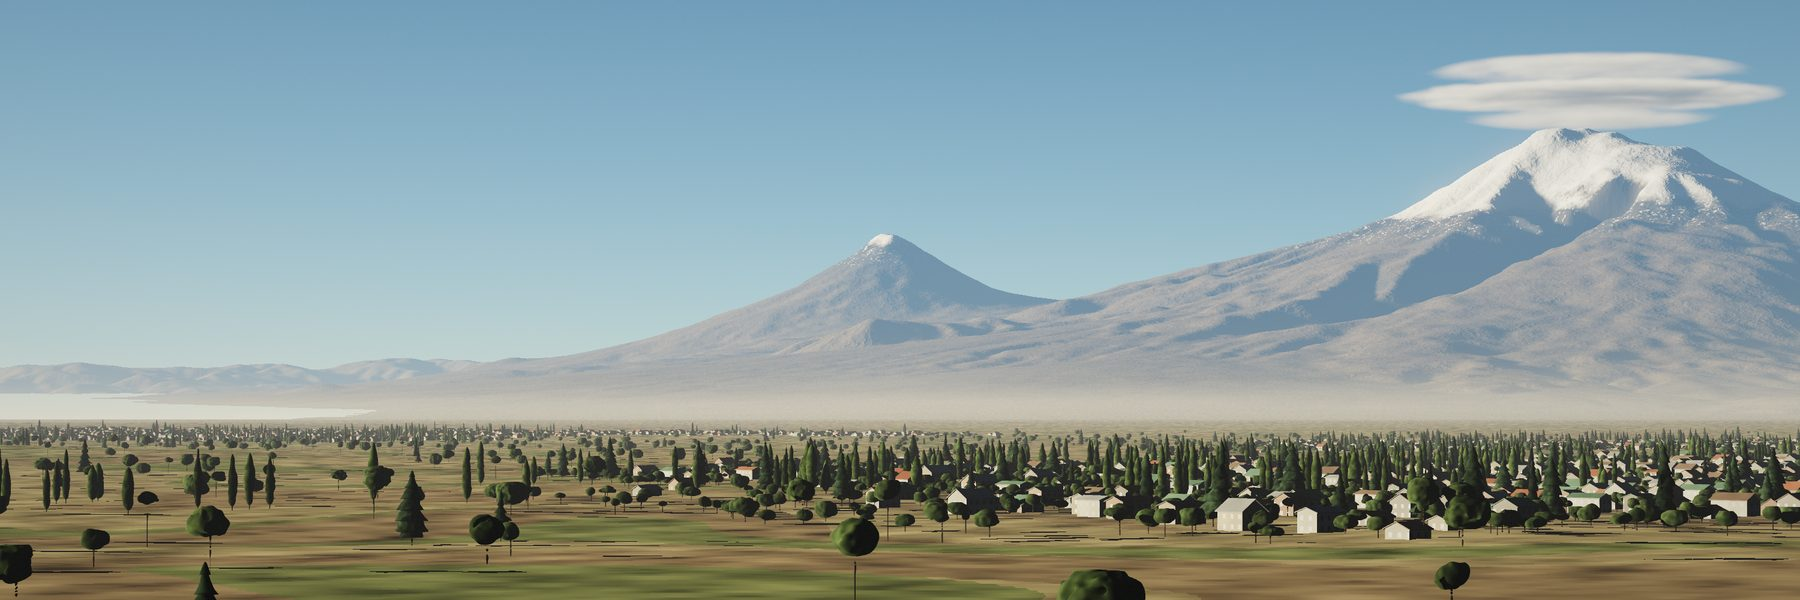
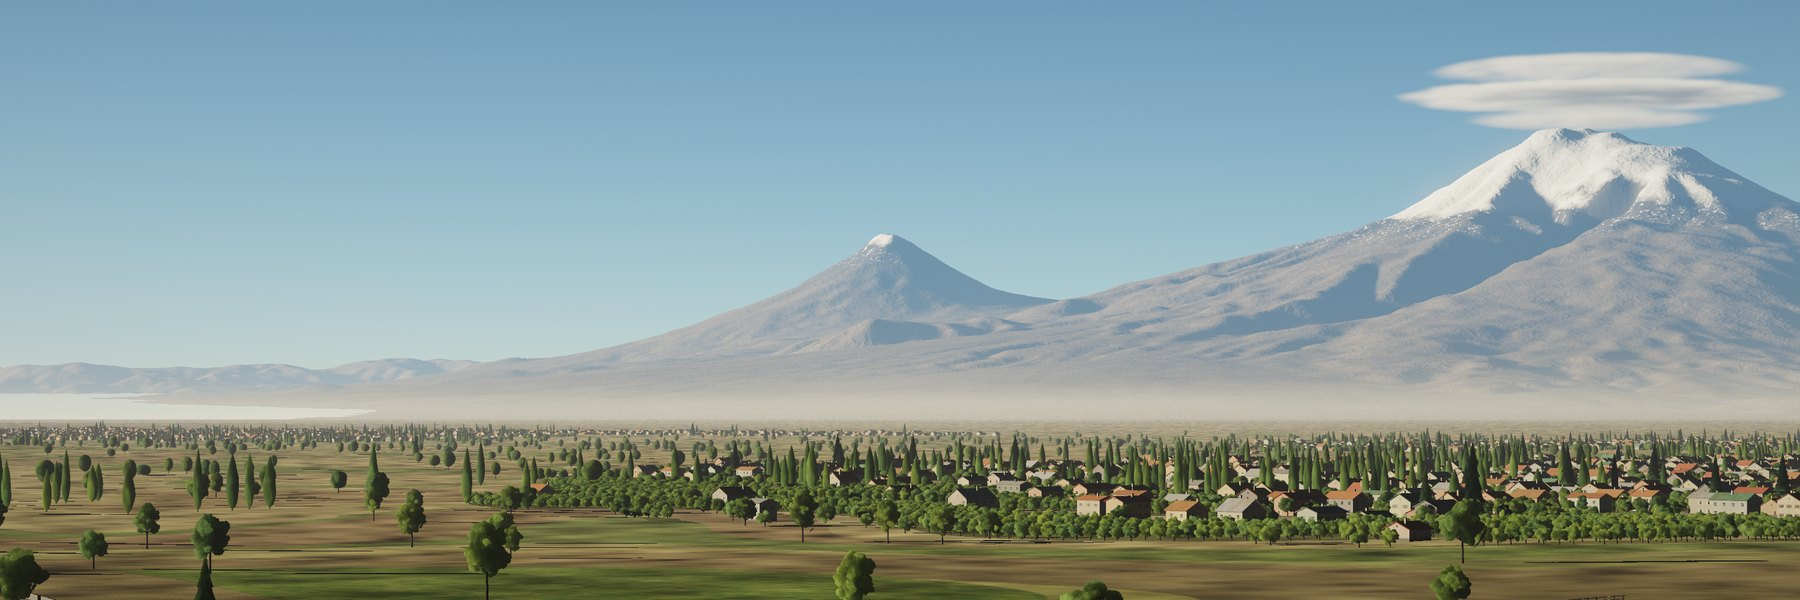
Docs and media: village close-up, blue hour on real streets, OSM credit, changelog
Claude-Session: https://claude.ai/code/session_01LATHsLhwRN2qucnQSaWobU

Changed region(s): [[0.0, 0.69, 1.0, 1.0]]

diff --git a/docs/index.html b/docs/index.html
@@ -268,14 +268,18 @@ footer{margin-top:clamp(56px,8vw,110px);padding-block:18px 36px;border-top:1px s
           <div class="frame"><img id="reArarat" src="media/re_ararat.jpg" alt="Photographic render of Ararat at golden hour with haze and a lenticular cloud" width="1800" height="600" loading="lazy"></div>
           <figcaption><span>Ararat from the plain · golden hour, sun placed to light the faces the camera sees</span><a class="save" data-save="reArarat" href="#" download>Save image</a></figcaption>
         </figure>
+        <figure>
+          <div class="frame"><img id="reVillage" src="media/re_village.jpg" alt="A dirt lane past a stone-walled house, orchards and poplar rows, with Ararat and Little Ararat behind" width="1800" height="600" loading="lazy"></div>
+          <figcaption><span>A village lane on the Ararat plain · camera 3 m up, house 60 m away · <code>--trees 0.8 --villages 0.7 --cam-height 0.003</code></span><a class="save" data-save="reVillage" href="#" download>Save image</a></figcaption>
+        </figure>
         <div class="pair">
           <figure>
             <div class="frame"><img id="reOrch" src="media/re_orchards.jpg" alt="Ararat behind orchards, poplar rows and villages" width="1800" height="600" loading="lazy"></div>
             <figcaption><span>Orchards and villages · <code>--trees 0.8 --villages 0.7</code></span><a class="save" data-save="reOrch" href="#" download>Save</a></figcaption>
           </figure>
           <figure>
-            <div class="frame"><img id="reBlue" src="media/re_bluehour.jpg" alt="Ararat at blue hour over the lights of Yerevan with out-of-focus lamps" width="1800" height="600" loading="lazy"></div>
-            <figcaption><span>Yerevan at blue hour · <code>--city 0.8 --aperture 40</code></span><a class="save" data-save="reBlue" href="#" download>Save</a></figcaption>
+            <div class="frame"><img id="reBlue" src="media/re_bluehour.jpg" alt="Ararat as a dark silhouette at blue hour above the street lights of Yerevan" width="1800" height="600" loading="lazy"></div>
+            <figcaption><span>Yerevan at blue hour · lamps on the real streets (© OpenStreetMap contributors) · <code>--sun-el -5 --city 0.8</code></span><a class="save" data-save="reBlue" href="#" download>Save</a></figcaption>
           </figure>
         </div>
         <figure>
@@ -460,7 +464,7 @@ footer{margin-top:clamp(56px,8vw,110px);padding-block:18px 36px;border-top:1px s
     </section>
   </main>
 
-  <footer><span>Elevation: <a href="https://registry.opendata.aws/terrain-tiles/">AWS Terrain Tiles</a> (<a href="https://github.com/tilezen/joerd/blob/master/docs/attribution.md">sources and attribution</a>). Rendering: numpy, Canvas 2D.</span><span><a href="https://github.com/dogum/procedural-art">github.com/dogum/procedural-art</a> · Apache-2.0</span></footer>
+  <footer><span>Elevation: <a href="https://registry.opendata.aws/terrain-tiles/">AWS Terrain Tiles</a> (<a href="https://github.com/tilezen/joerd/blob/master/docs/attribution.md">sources and attribution</a>). Streets for the city lights: © <a href="https://www.openstreetmap.org/copyright">OpenStreetMap contributors</a>. Rendering: numpy, Canvas 2D.</span><span><a href="https://github.com/dogum/procedural-art">github.com/dogum/procedural-art</a> · Apache-2.0</span></footer>
 </div>
 
 <script>

diff --git a/README.md b/README.md
@@ -79,14 +79,14 @@ The first engine treated every mountain like Ararat, and the Matterhorn drowned 
 
 ## Toward a photograph
 
-The same elevation, ray-marched through a physical atmosphere: Rayleigh and Mie scattering, soft terrain shadows, valley mist, a lenticular cloud with multiple scattering. Lakes reflect the terrain with Fresnel and ripple normals. Trees, villages and city lights are placed near the camera.
+The same elevation, ray-marched through a physical atmosphere: Rayleigh and Mie scattering, soft terrain shadows, valley mist, a lenticular cloud with multiple scattering. Lakes reflect the terrain with Fresnel and ripple normals. Trees, villages, stone walls and fields are placed near the camera, and a city at dusk is lit along its real OpenStreetMap streets.
 
 <img src="docs/media/re_fuji.jpg" alt="Photographic render of Mount Fuji reflected in Lake Kawaguchi">
 
 <table>
 <tr>
-<td width="50%"><img src="docs/media/re_bluehour.jpg" alt="Ararat at blue hour over the lights of Yerevan"><br>Blue hour over Yerevan, with lens bokeh</td>
-<td width="50%"><img src="docs/media/re_orchards.jpg" alt="Ararat behind orchards and villages"><br>Orchards, poplars and villages</td>
+<td width="50%"><img src="docs/media/re_bluehour.jpg" alt="Ararat as a dark silhouette at blue hour above the street lights of Yerevan"><br>Blue hour over Yerevan, lamps on the real streets</td>
+<td width="50%"><img src="docs/media/re_village.jpg" alt="A dirt lane past a stone-walled house and orchards, Ararat behind"><br>A village lane on the Ararat plain, camera 3 m up</td>
 </tr>
 </table>
 
@@ -142,7 +142,7 @@ cp -r procedural-art/skills/procedural-terrain-art procedural-art/skills/procedu
 pip install -r procedural-art/requirements.txt
 ```
 
-**Requirements:** Python 3 with numpy, scipy, pillow, matplotlib and contourpy (`requirements.txt`); ffmpeg for videos; network access to AWS Terrain Tiles for elevation (no key). Everything runs on CPU.
+**Requirements:** Python 3 with numpy, scipy, pillow, matplotlib and contourpy (`requirements.txt`); ffmpeg for videos; network access to AWS Terrain Tiles for elevation (no key), and for a city at night to the OpenStreetMap Overpass API (cached after the first run). Everything runs on CPU.
 
 ## Try these
 
@@ -194,13 +194,13 @@ One CPU core:
 | All six styles + contact sheet | ~40 s |
 | Studio page | ~5 s to build |
 | Photographic terrain, 3000 × 1000 | 3–12 min (resumable) |
-| Timelapse, 40 keyframes at 1200 × 400 | ~40 min (resumable) |
+| Timelapse, 20 s at 1200 × 400, every frame rendered | ~6 hours (resumable; `--blend 2` halves it) |
 | Clean still life, 2400 × 800 | ~1 hour (resumable) |
 | Painting, 3000 × 1000 | 10–60 s |
 
 ## Limits
 
-What works and what doesn't: light, atmosphere, glass, metal and real terrain at a distance look right. Trees and houses look game-like closer than about 300 m; city lights are boxes and window grids at 1:1; timelapse in-betweens cross-fade shadows instead of sliding them; paintings soften fine detail on noisy sources; organic shapes like petals are out of reach for the path tracer. The skills say so when a request lands there.
+What works and what doesn't: light, atmosphere, glass, metal and real terrain at a distance look right. Trees, houses and walls within about 60 m look rendered rather than photographed; city buildings are boxes with guessed heights; paintings soften fine detail on noisy sources; organic shapes like petals are out of reach for the path tracer. The skills say so when a request lands there.
 
 ## Repository layout
 
@@ -230,7 +230,7 @@ Pictures welcome. See [CONTRIBUTING.md](CONTRIBUTING.md): change a skill, render
 
 ## Credits
 
-Elevation data: [Terrain Tiles on AWS](https://registry.opendata.aws/terrain-tiles/) (SRTM, GMTED, ETOPO1 and other public sources; see the [attribution list](https://github.com/tilezen/joerd/blob/master/docs/attribution.md)). Summit and viewpoint coordinates were looked up from public sources for each example. Built with Claude.
+Elevation data: [Terrain Tiles on AWS](https://registry.opendata.aws/terrain-tiles/) (SRTM, GMTED, ETOPO1 and other public sources; see the [attribution list](https://github.com/tilezen/joerd/blob/master/docs/attribution.md)). Street data for the city lights: © [OpenStreetMap contributors](https://www.openstreetmap.org/copyright), available under the Open Database License. Summit and viewpoint coordinates were looked up from public sources for each example. Built with Claude.
 
 ## License
 

diff --git a/CHANGELOG.md b/CHANGELOG.md
@@ -2,6 +2,14 @@
 
 All notable changes to this project are documented here. Versions follow [semantic versioning](https://semver.org/).
 
+## [Unreleased]
+
+### procedural-realism
+- Close foregrounds: trees get leaf clumps on branches, sky gaps, a visible trunk and limbs, self-shadowed crowns, backlit leaves and dappled shadows; detail appears only once it is large enough in pixels, so far trees look as before. Houses get tuff, plaster or board walls, tile, tin or slate roofs, framed windows, doors, chimneys, gutters and weathering. Dry-stone walls, hedges and fences run along field and yard edges with gates; fields have crop rows, grass, flowers and rutted lanes. A low camera 60 m from a house now reads as a village rather than a model. Fixed two old bugs that smeared everything within 50 m of a low camera.
+- Blue hour: below about 8° of sun the sky is computed per wavelength (ozone's Chappuis band) with a Hillaire multiple-scattering table, so the zenith is blue instead of lavender and twilight darkens at the measured rate. Daylight skies are unchanged.
+- Cities at dusk are lit along their real streets: new `scripts/osm_roads.py` fetches OpenStreetMap roads through the Overpass API (cached; the synthetic grid is the fallback, or `--streets grid`). Lamps by road class, buildings facing the street, dark parks and fields, `--traffic` for car light streaks. Post keys the blue-hour exposure on the sky and sets a 4800 K white balance (`--wb`, `--sat`).
+- Timelapse renders every frame at its own sun position, so shadows slide instead of cross-fading (`--frames`; `--blend K` renders every K-th frame). Exposure is smoothed over sun time, refraction tapers smoothly below the horizon, and the frames land on the blue-hour look. Faster frames with a warm `--geom-cache`.
+
 ## [1.1.0] - 2026-09-25
 
 ### Web app
